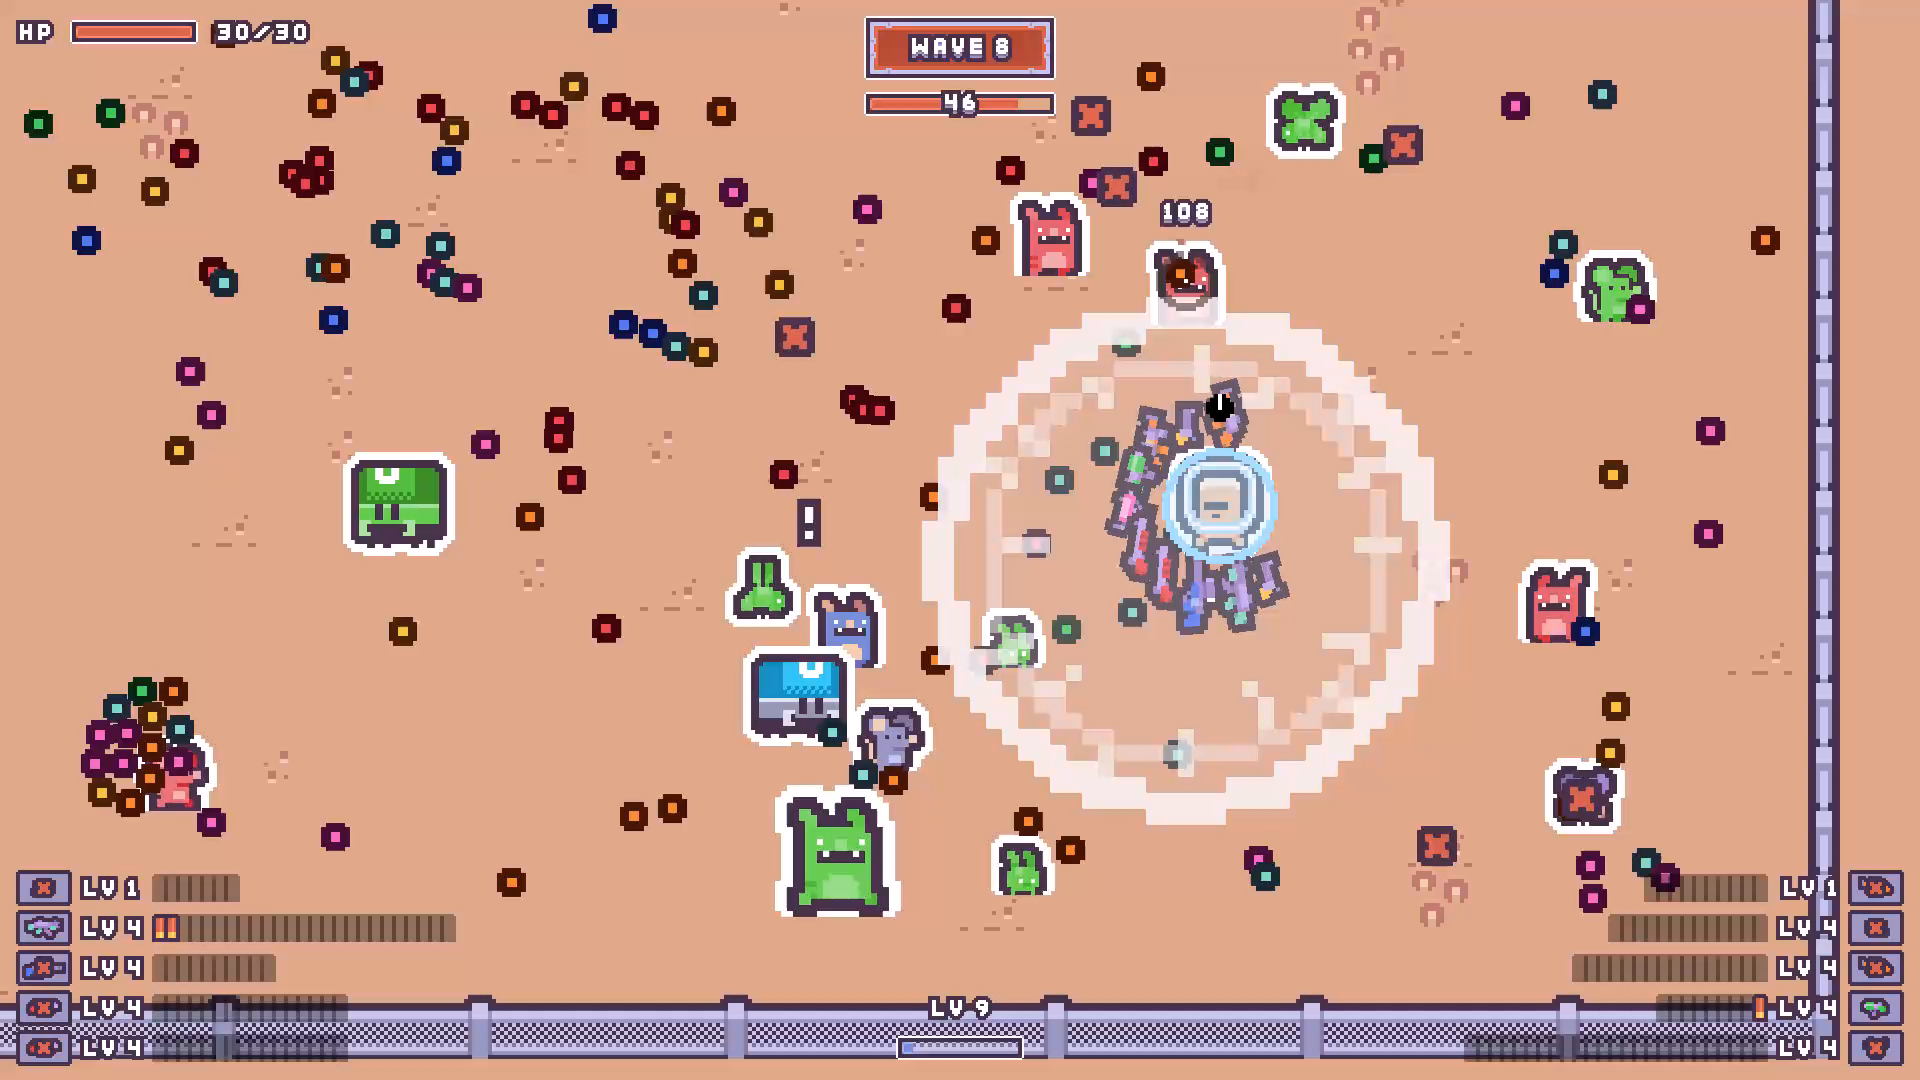
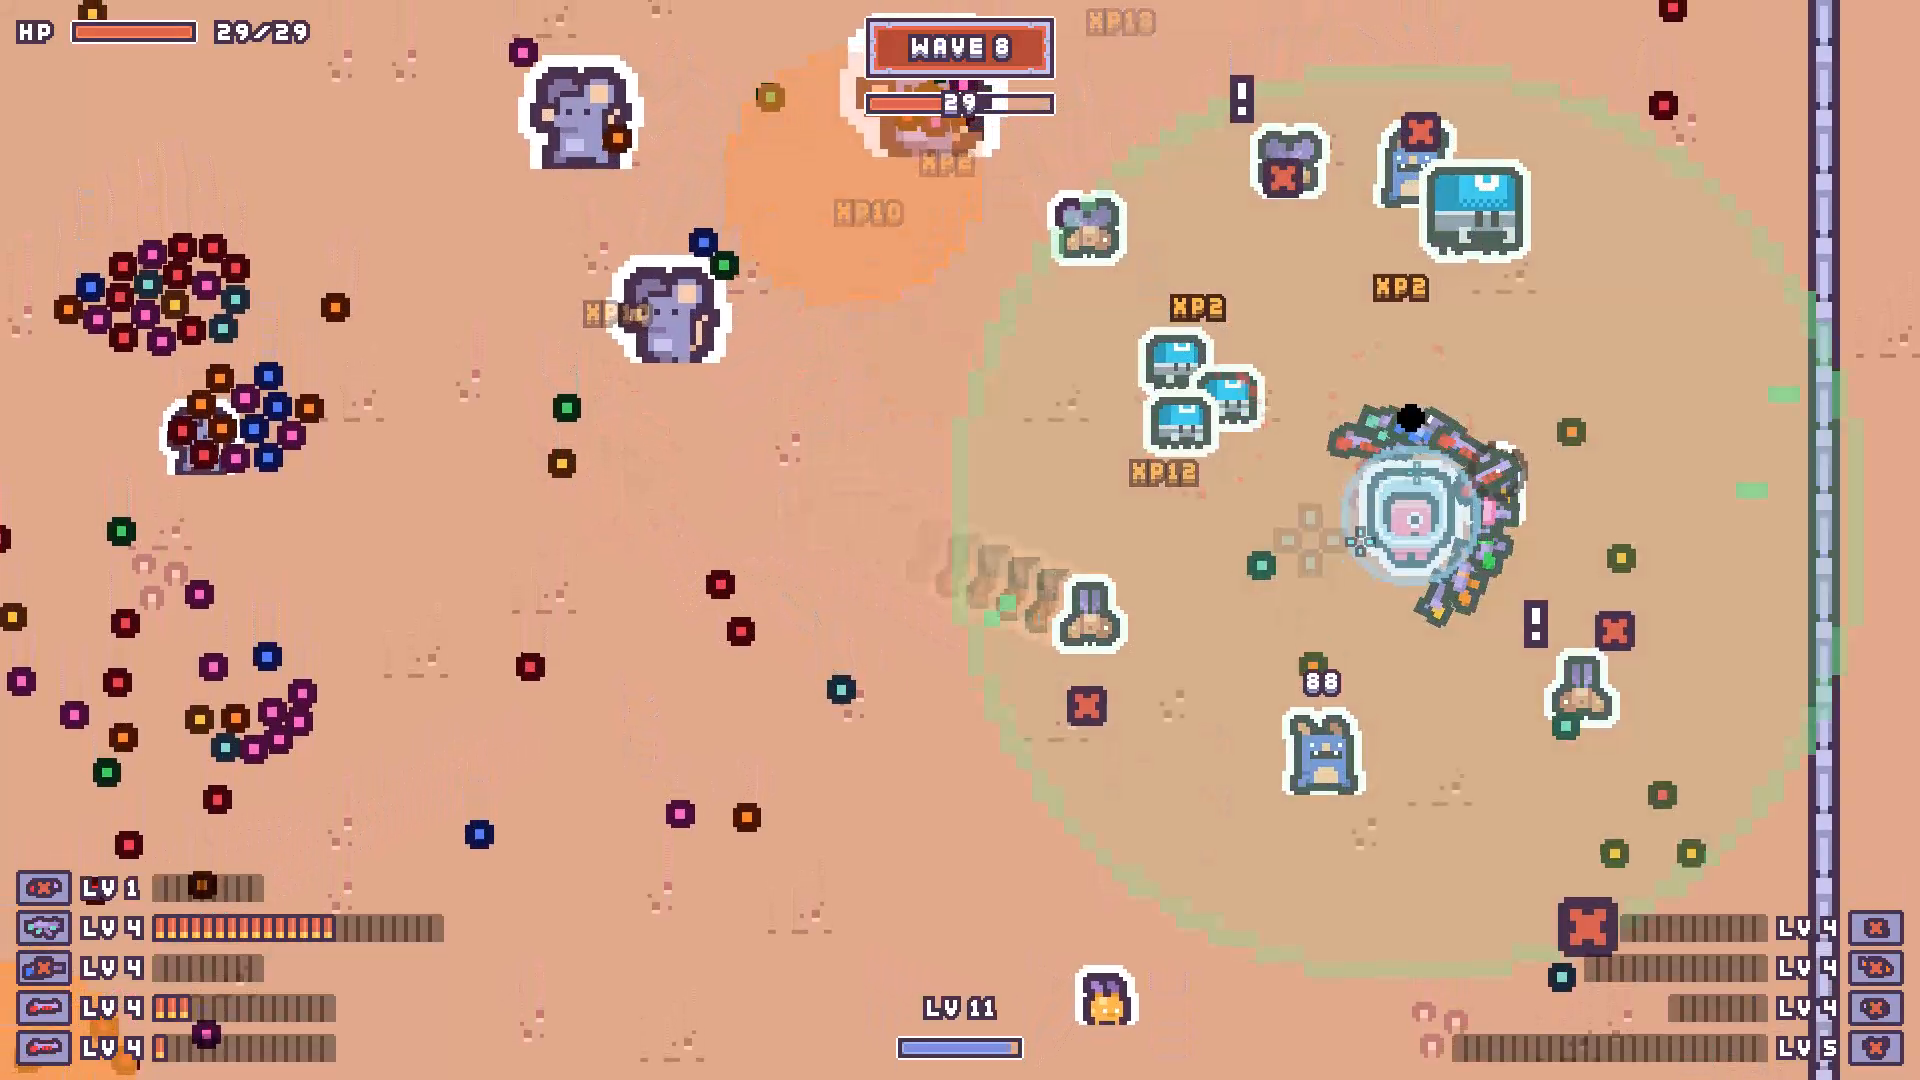
docs: README 미디어를 새 적 등급에 맞게 다시 만들기
초록·빨강 단계 적이 찍힌 미리보기·전투·탄환 그림을 새 촬영(웨이브 8,
HUD 포함)으로 바꾸고, 적 그림을 8종 x 노멀·챔피언·울트라 크기 비교로
다시 만들었다. 설명 문구도 맞췄다.

diff --git a/README.md b/README.md
@@ -40,7 +40,7 @@ Unity 6 프로토타입 · 2026.09 – 10 · 잠정 중단
   <tr>
     <td colspan="2" align="center">
       <img src="Docs/Media/combat.png" alt="전투"><br>
-      <b>전투</b> — 웨이브 8, 능력 충격파와 바닥에 쌓인 탄
+      <b>전투</b> — 웨이브 8, 회수 펄스와 바닥에 쌓인 탄
     </td>
   </tr>
   <tr>
@@ -92,7 +92,7 @@ Unity 6 프로토타입 · 2026.09 – 10 · 잠정 중단
     </td>
     <td width="50%" align="center">
       <img src="Docs/Media/enemies.png" alt="적 8종과 등급"><br>
-      <b>적</b><br>수집형·소환사·돌진형 등 6종과 분열하는 서펜트 보스. 후반엔 초록·빨강 등급과 큰 챔피언이 섞입니다.
+      <b>적</b><br>수집형·소환사·돌진형 등 6종과 분열하는 서펜트 보스. 후반엔 1.5배 챔피언과 2배 울트라가 섞입니다.
     </td>
   </tr>
   <tr>
